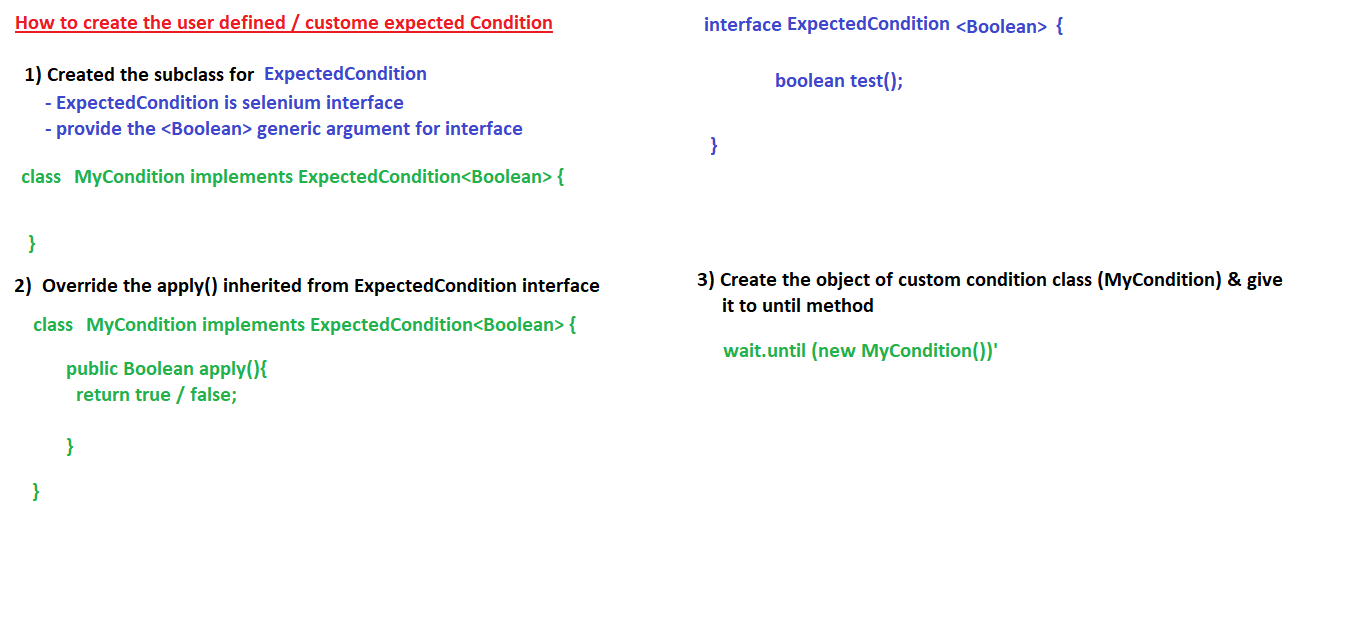
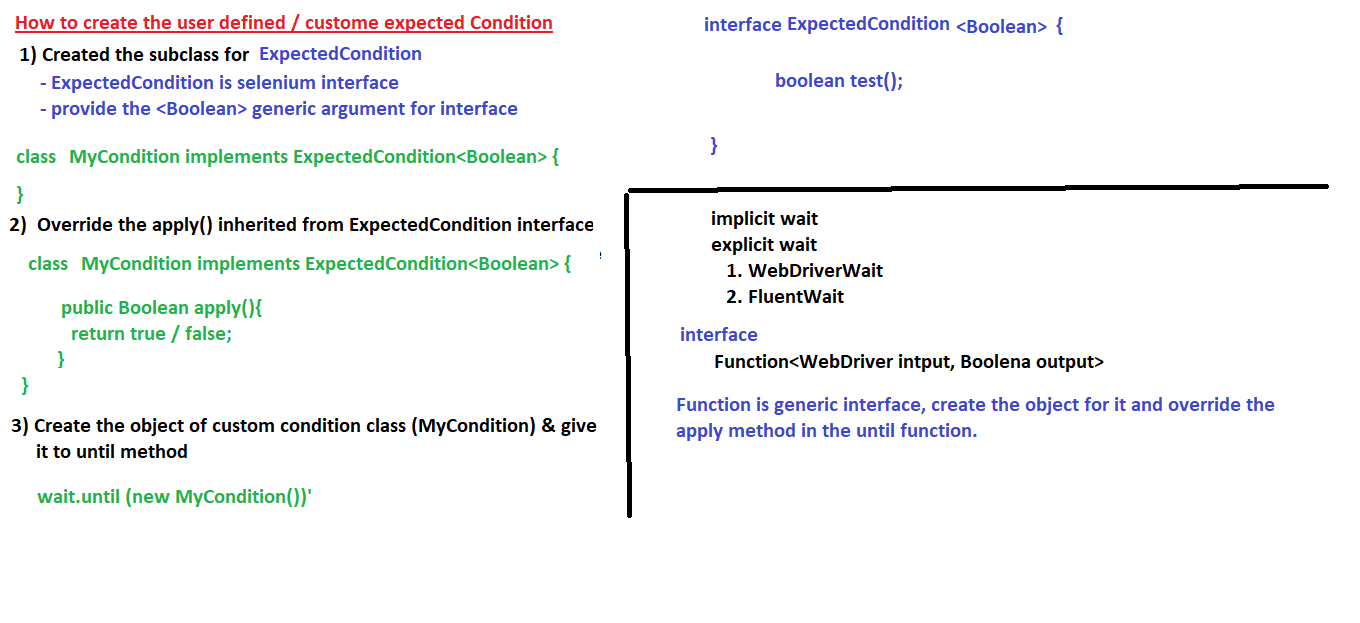
New Commit - Synchronization

diff --git a/SMAY7012025_Old/src/test/P1_1.java b/SMAY7012025_Old/src/test/P1_1.java
@@ -11,28 +11,15 @@ import org.openqa.selenium.chrome.ChromeDriver;
 public class P1_1 {
 
 	public static void main(String[] args) {
-		//Open Browser, Maximize it and Navigate to URL
 		System.setProperty("webdriver.chrome.driver", "./drivers/chromedriver.exe");
 		WebDriver driver = new ChromeDriver();
 		driver.manage().window().maximize();
 		
-		driver.manage().timeouts().implicitlyWait(10, TimeUnit.SECONDS);
+		driver.manage().timeouts().pageLoadTimeout(2, TimeUnit.SECONDS);
 		
-		driver.get("https://ibegin.tcsapps.com/candidate/register");
+		driver.get("https://trello.com/");
 
-//		Thread.sleep(5000);
-
-		driver.findElement(By.xpath("//input[contains(@placeholder,'skills')]")).sendKeys("Testing");
-
-//		Thread.sleep(3000);
-
-		List<WebElement> allAutoSuggetions = driver.findElements(By.xpath("//li[@data-ng-repeat='item in itemList']"));
-		
-		for (WebElement ele : allAutoSuggetions) {
-			System.out.println(ele.getText());
-		}
-		
-		driver.quit();
+		driver.findElement(By.xpath("//a[text()='Log in' and @data-uuid]")).click();
 	}
 
 }
